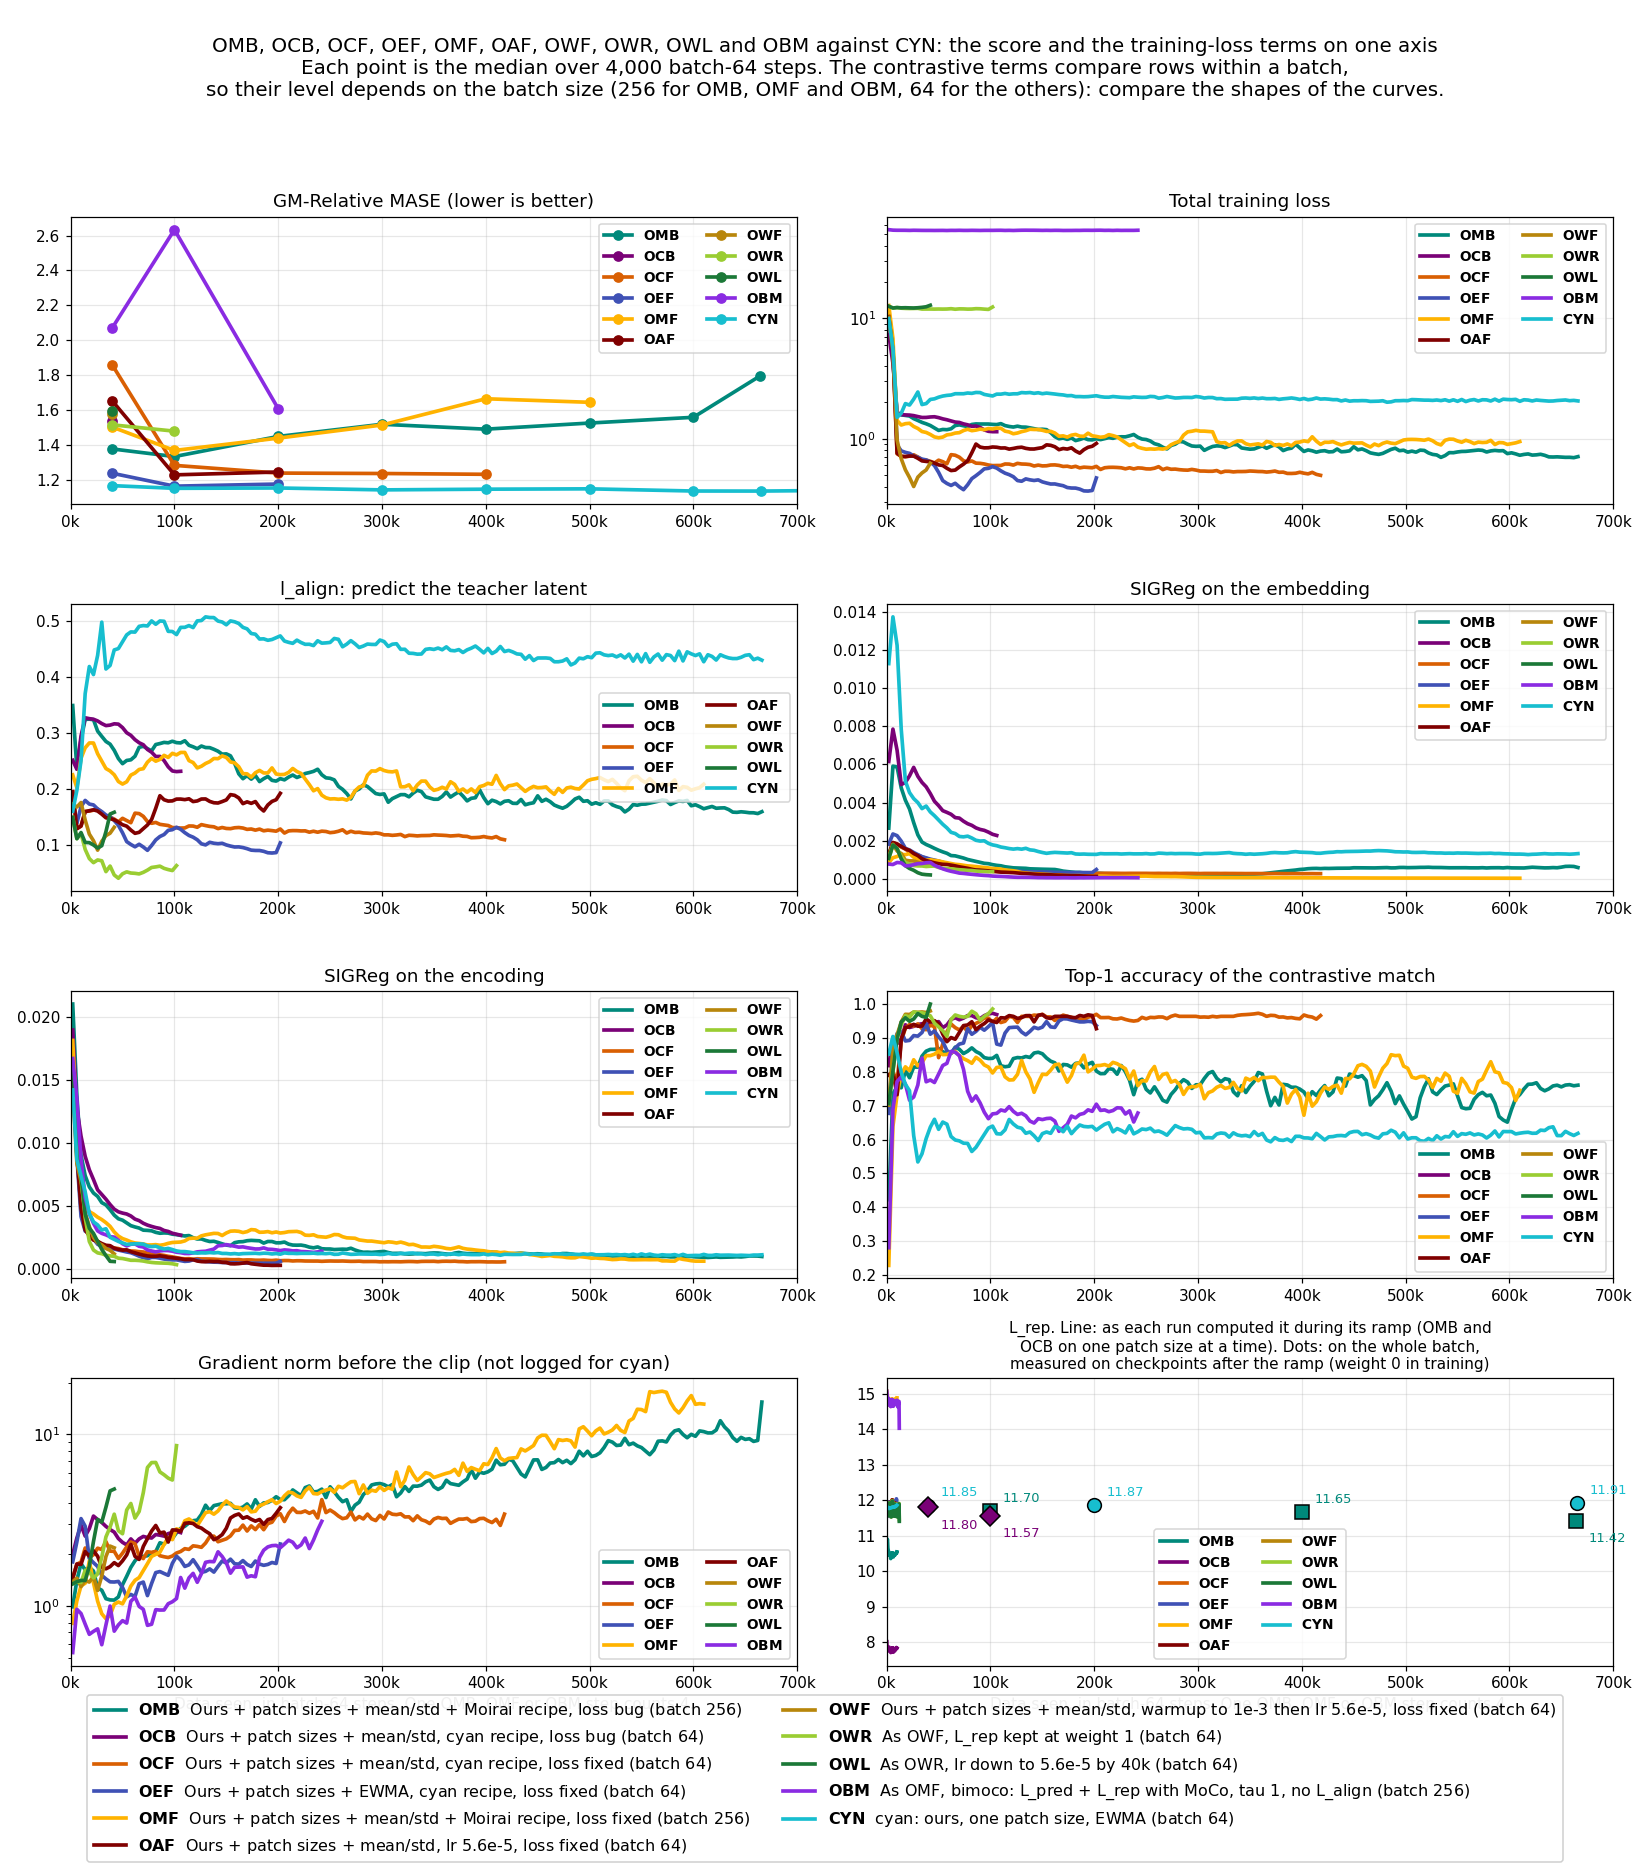
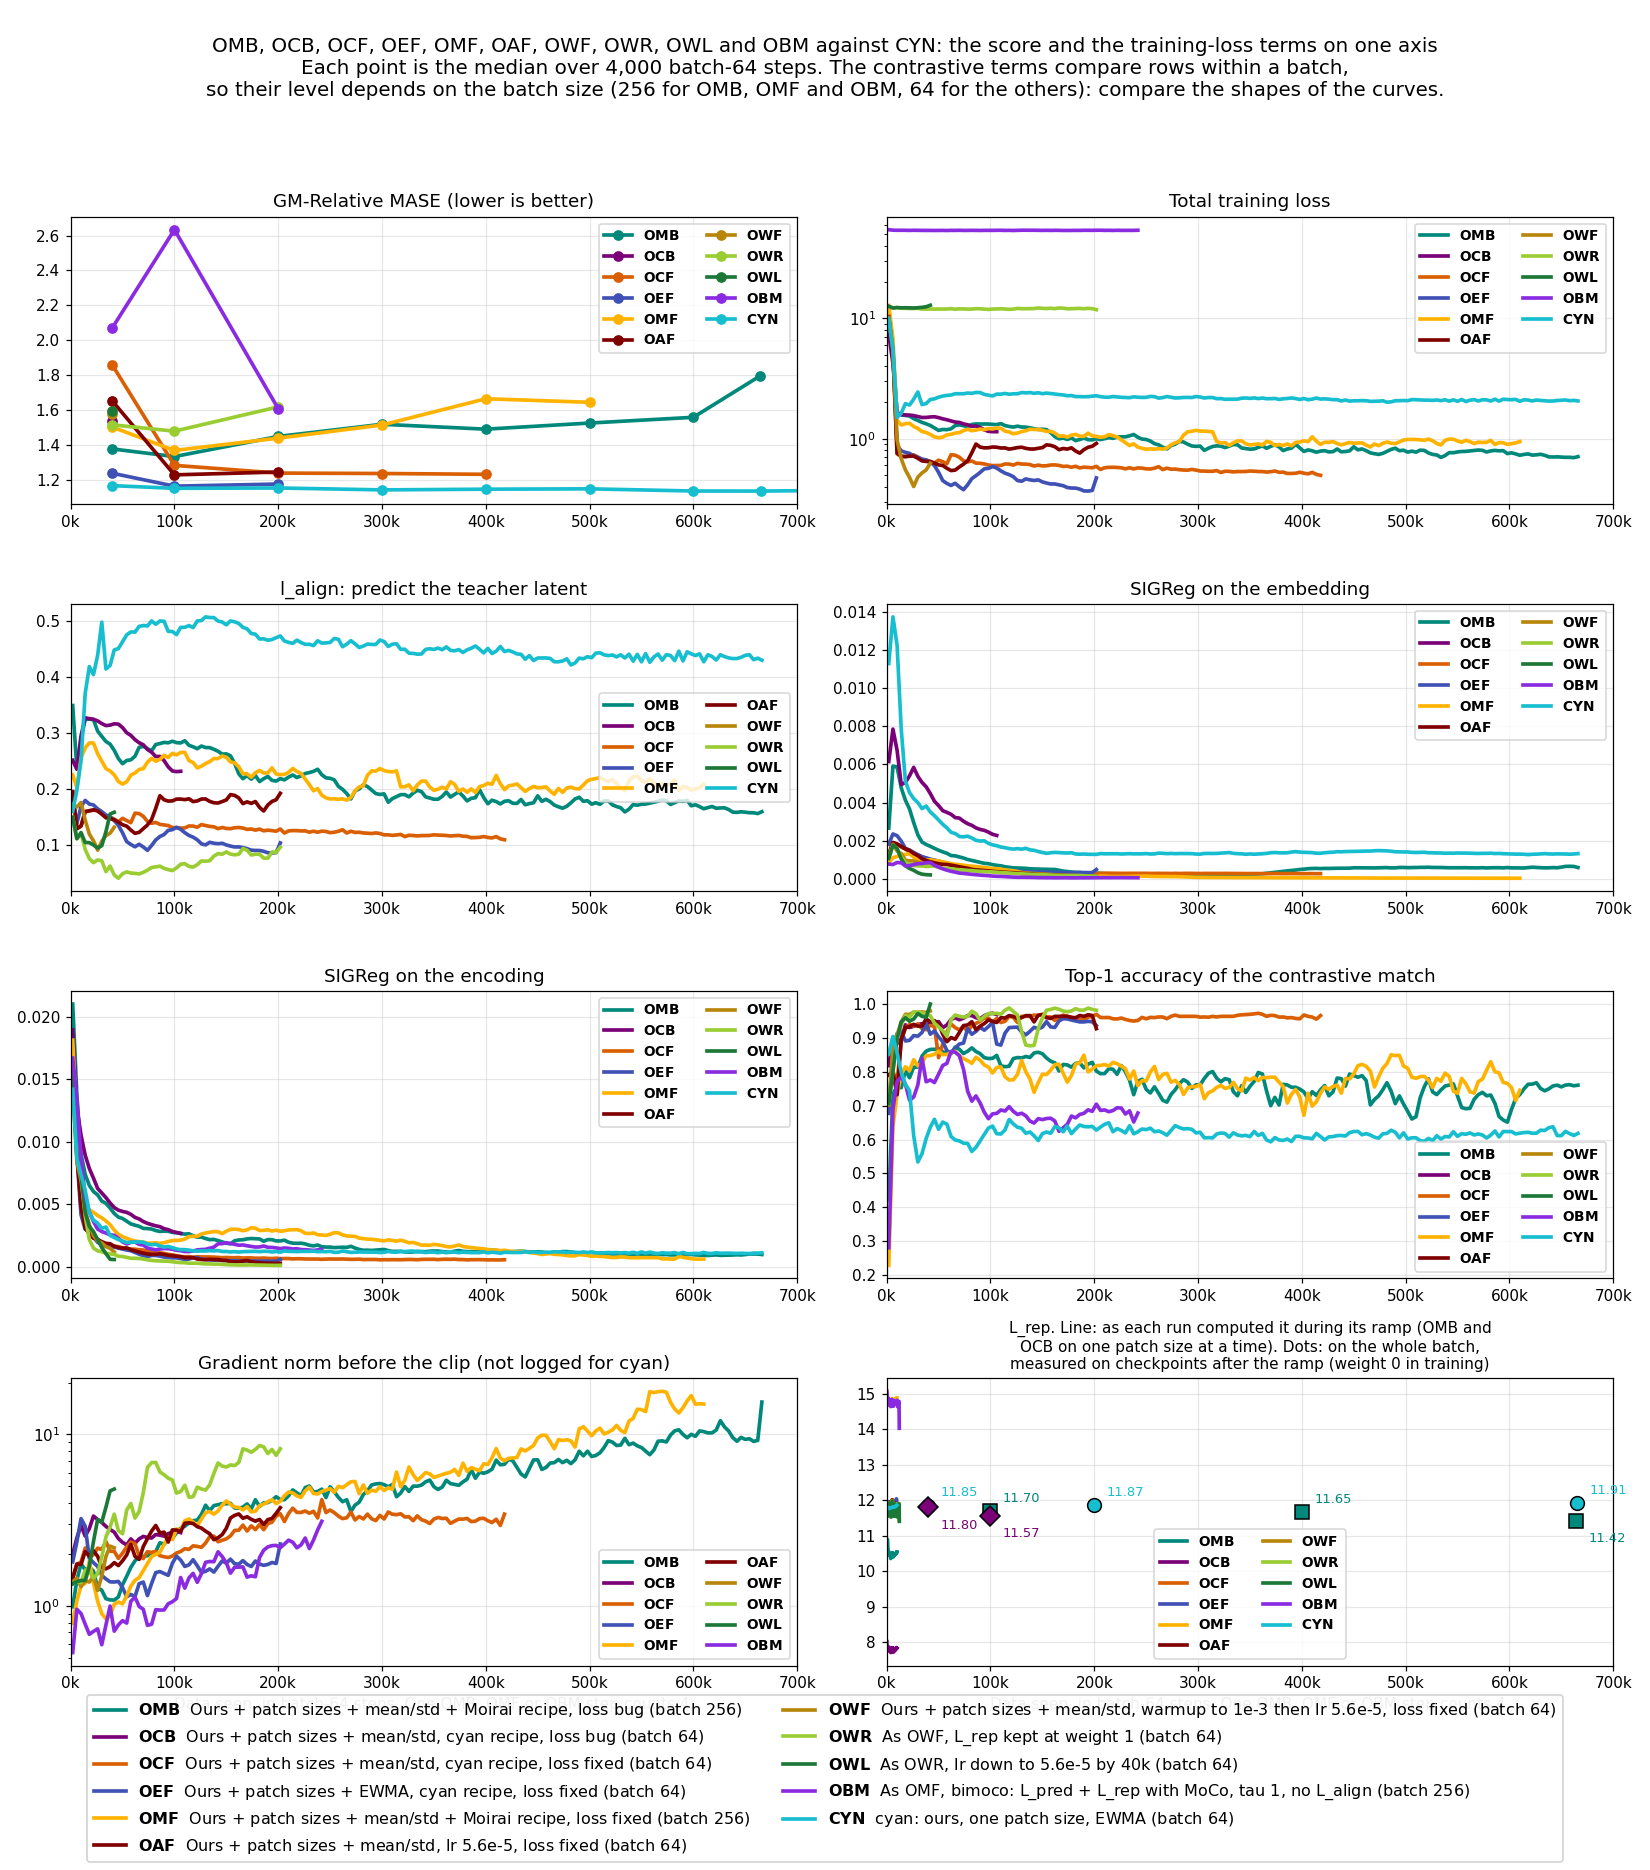
exp(#412): OWR (#412or2) scores 1.6190 at 200k, its last stop

Changed region(s): [[0.0309, 0.6203, 0.4636, 0.6824], [0.0927, 0.7754, 0.1545, 0.8064], [0.6182, 0.5273, 0.6491, 0.5583]]

diff --git a/reports/2026-09-06_moirai_small_size/scripts/plot_gm_rates.py b/reports/2026-09-06_moirai_small_size/scripts/plot_gm_rates.py
@@ -67,6 +67,7 @@ XSCALE = {"cf415_moirai": 4, "cf415_moirai_native": 4, "cf419_moirai_native": 4,
 END_LABEL_OFFSET = {P + "_lr100x": (9, 4), P + "_cos200k": (9, -12), "cf412om": (-62, 6),
                     "cf412oc2": (9, 6), "cf412oa2": (9, 7), "cf412oe2": (9, 5), "cf412om2": (-22, -18),
                     "cf412ow2": (9, -9), "cf412ol2": (9, 2), "cf419_cos200k": (9, -13),
+                    "cf412or2": (9, 5), "cf412bm": (9, -12),
                     "cf421ew_moirai_native": (-45, -18), "cf421n_moirai_native": (-48, -16)}
 # A white outline keeps a score label readable where a line crosses it.
 HALO = [patheffects.withStroke(linewidth=3, foreground="white")]

diff --git a/reports/2026-09-06_moirai_small_size/scripts/plot_loss_terms_412.py b/reports/2026-09-06_moirai_small_size/scripts/plot_loss_terms_412.py
@@ -48,7 +48,7 @@ SOURCES = {
                  "cf412om2_k3_losses.csv", 4),
     "cf412oa2": ([f"cf-412oa2/leg_{k}k" for k in (40, 100, 200)], "cf412oa2_k3_losses.csv", 1),
     "cf412ow2": (["cf-412ow2/leg_40k"], "cf412ow2_k3_losses.csv", 1),
-    "cf412or2": (["cf-412or2/leg_40k", "cf-412or2/leg_100k"], "cf412or2_k3_losses.csv", 1),
+    "cf412or2": (["cf-412or2/leg_40k", "cf-412or2/leg_100k", "cf-412or2/leg_200k"], "cf412or2_k3_losses.csv", 1),
     "cf412ol2": (["cf-412ol2/leg_40k"], "cf412ol2_k3_losses.csv", 1),
     "cf412bm": ([f"cf-412bm/leg_{k}k" for k in (10, 25, 50, 75)], "cf412bm_k3_losses.csv", 4),
     CYAN: ([f"{CYAN}/arm6_v2_combab_alignT/leg_665k"],
